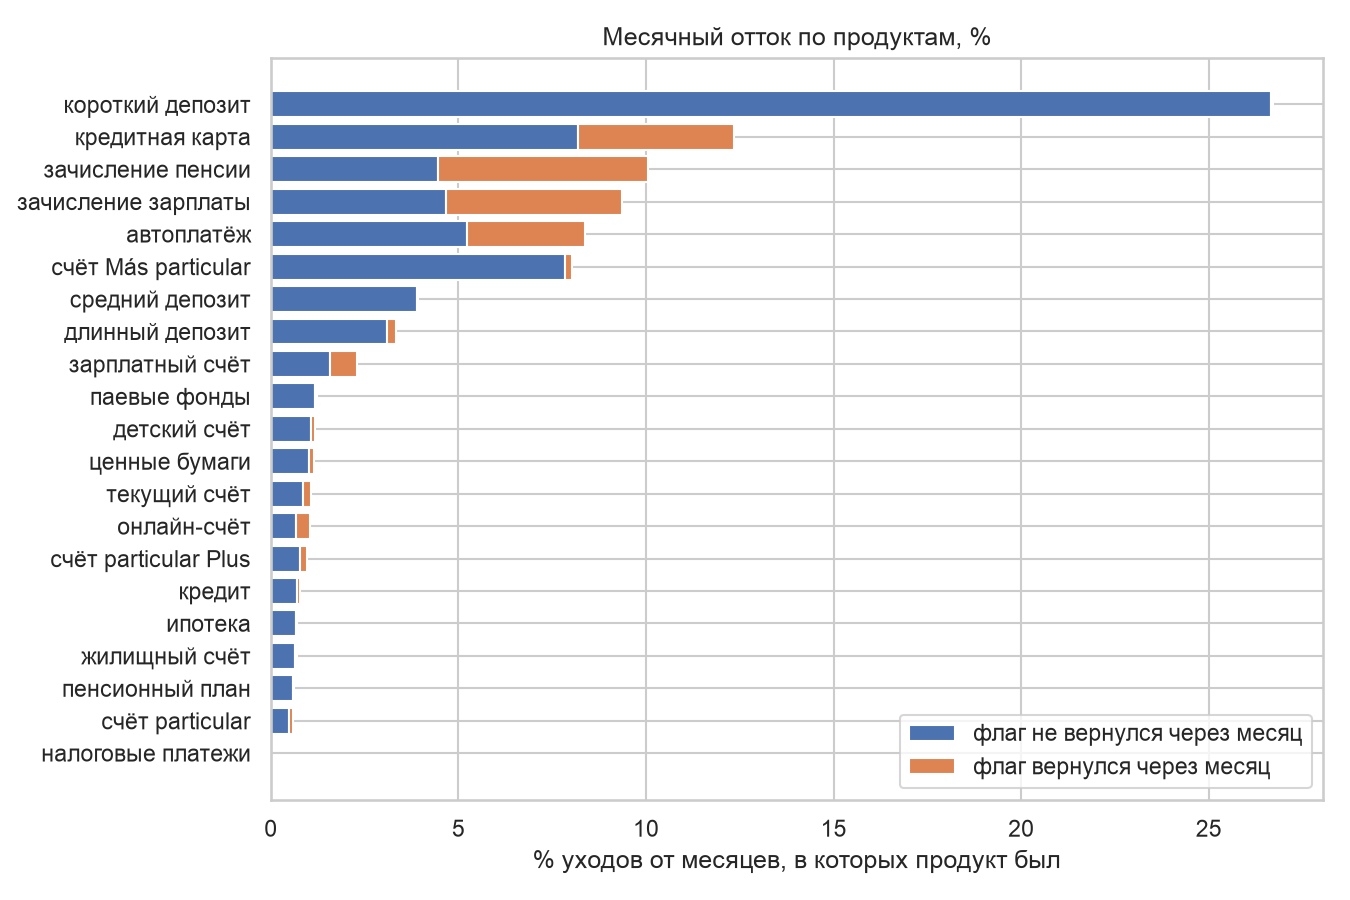
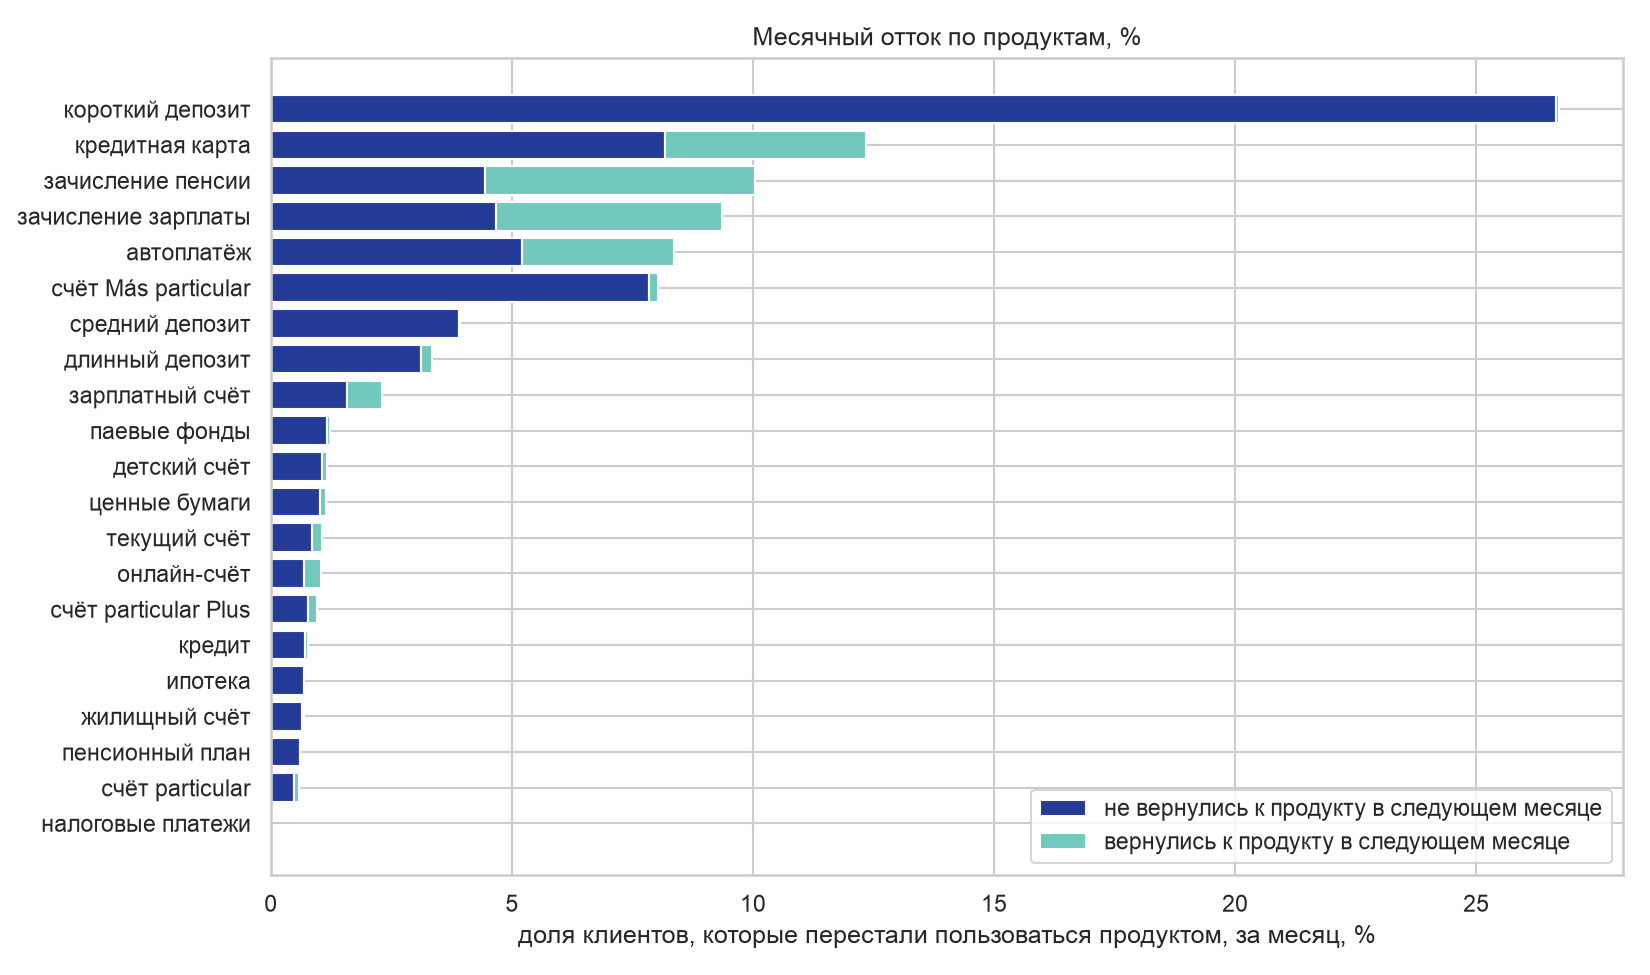
График оттока по продуктам

Changed region(s): [[0.0, 0.0311, 0.9956, 0.9956], [0.8711, 0.3733, 0.9022, 0.4044], [0.7467, 0.3733, 0.7778, 0.4044]]

diff --git a/santander_churn_cohorts/README.md b/santander_churn_cohorts/README.md
@@ -24,7 +24,7 @@
 
 <img src="reports/figures/cohort_retention.png" width="620" alt="Матрица удержания активных клиентов по когортам подключения">
 
-<img src="reports/figures/product_churn_rate.png" width="620" alt="Месячный отток по продуктам: доля уходов от месяцев, в которых продукт был у клиента">
+<img src="reports/figures/product_churn_rate.png" width="620" alt="Месячный отток по продуктам: доля клиентов, которые перестали пользоваться продуктом, за месяц">
 
 ## Задачи проекта
 
